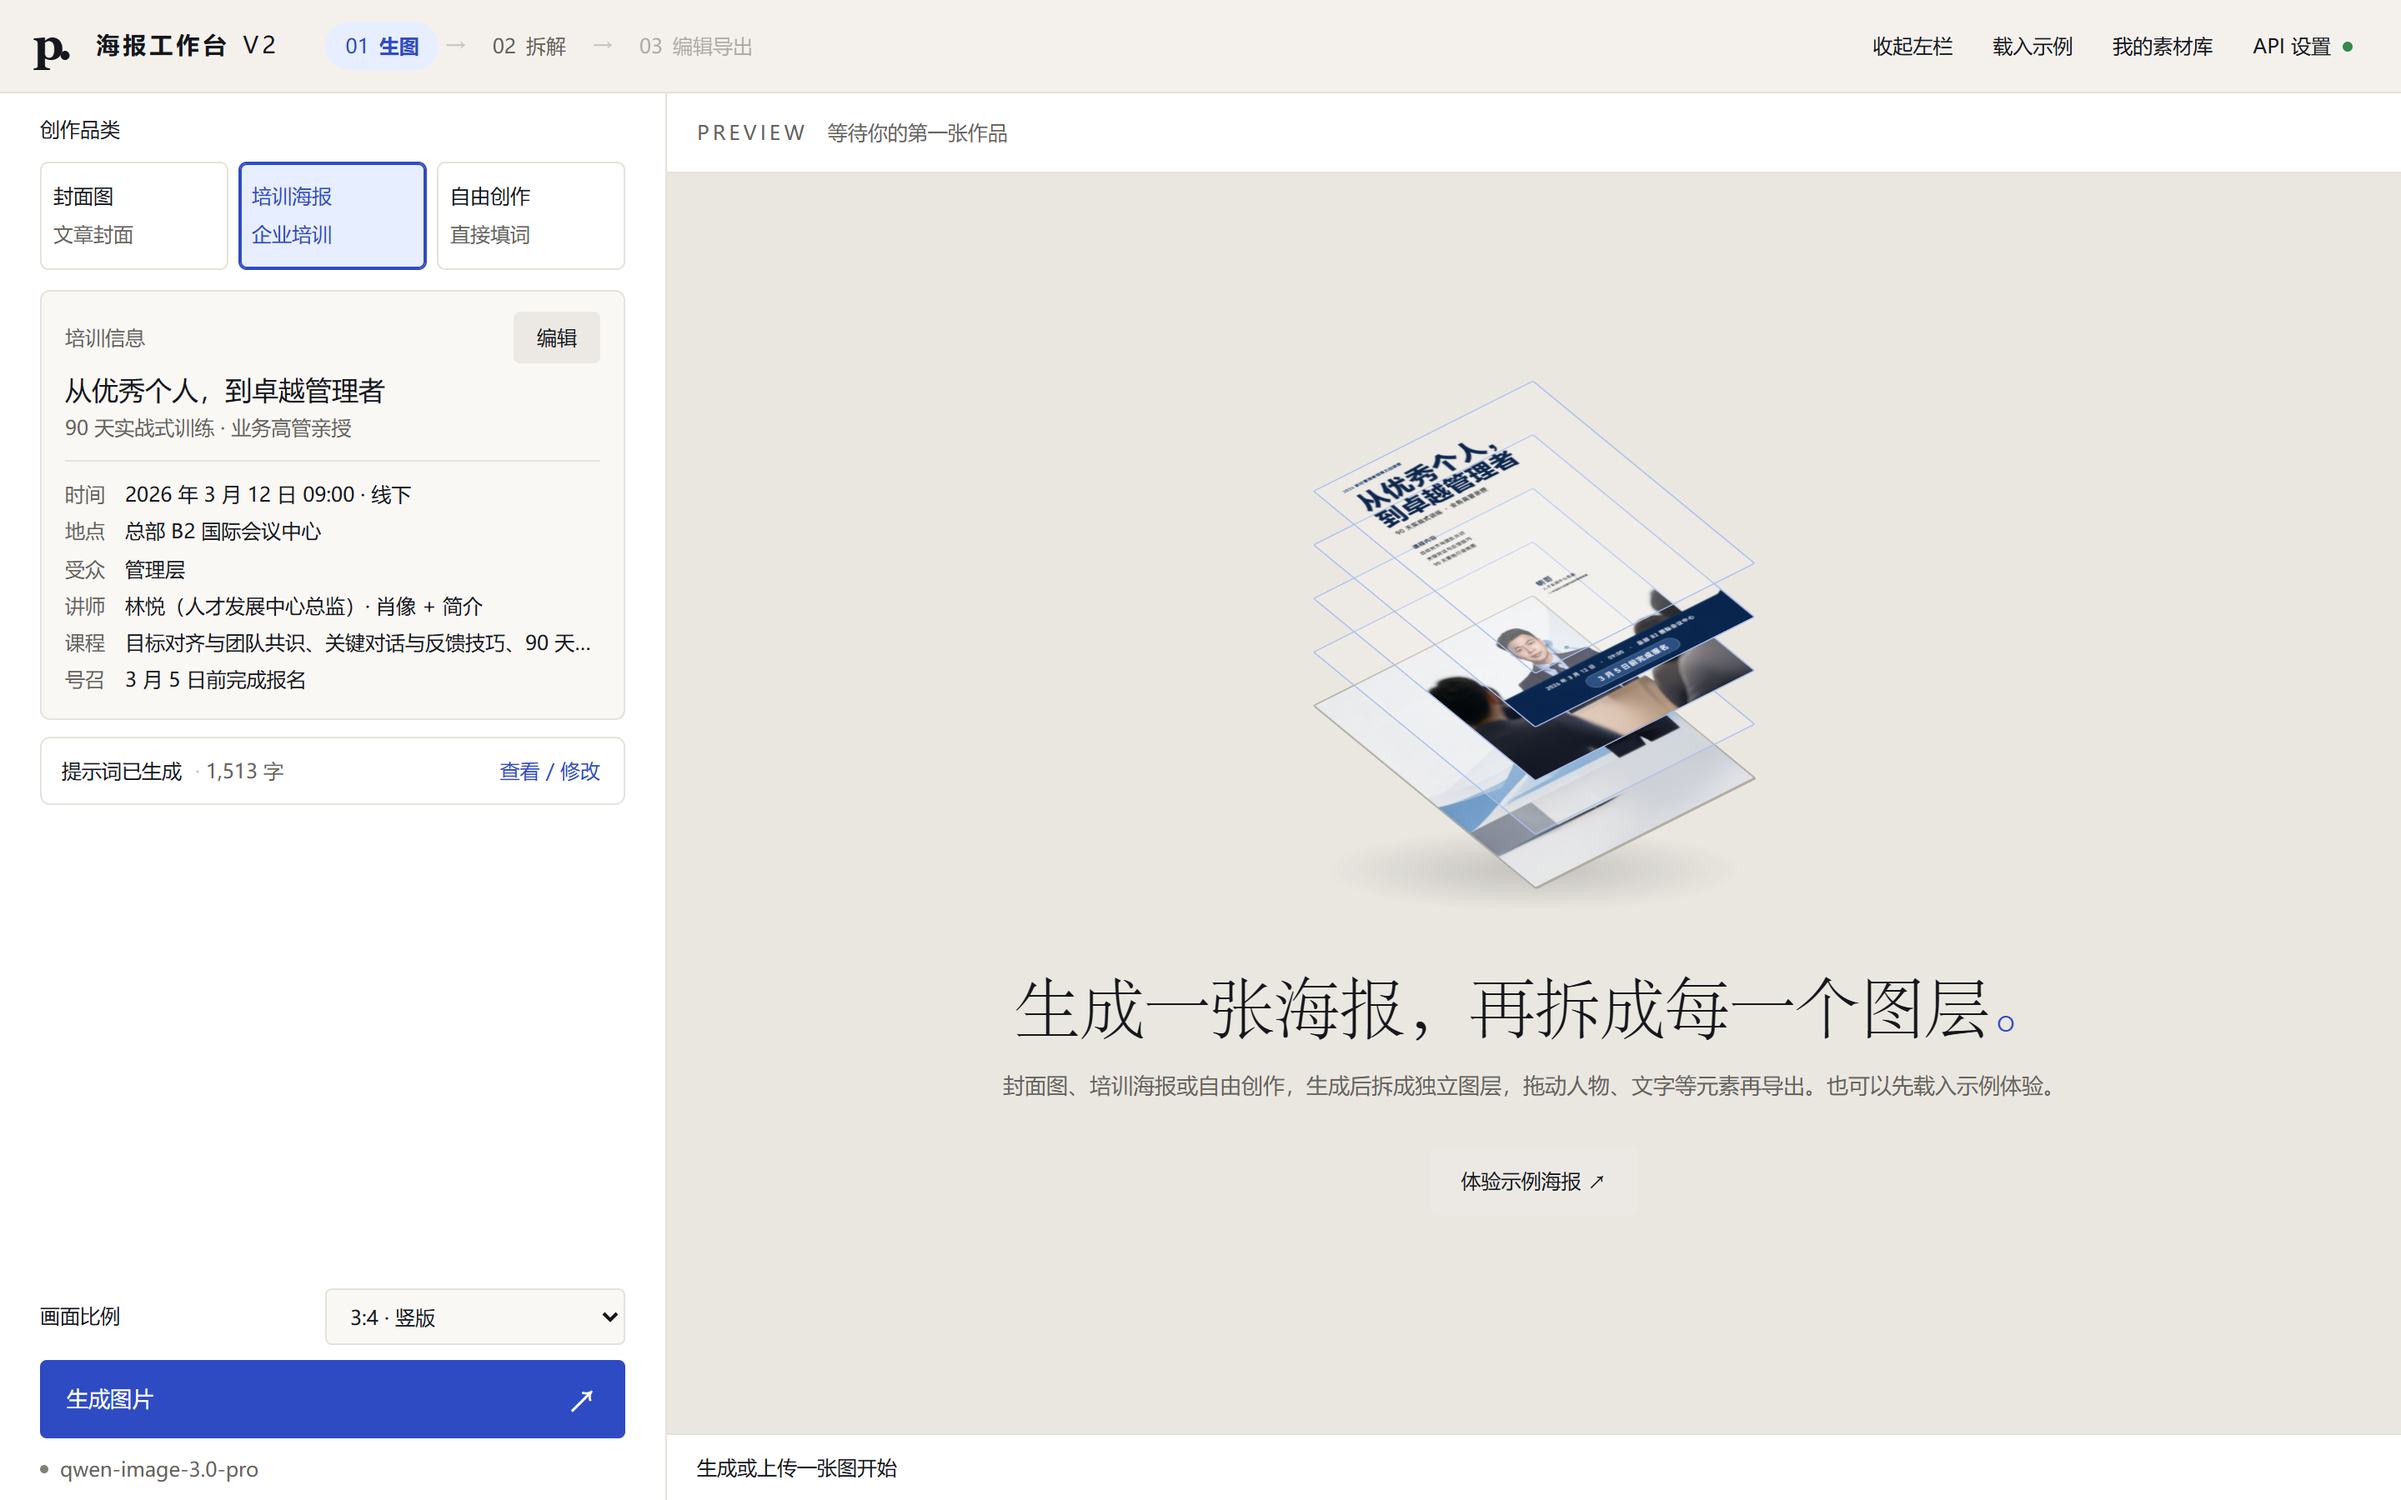
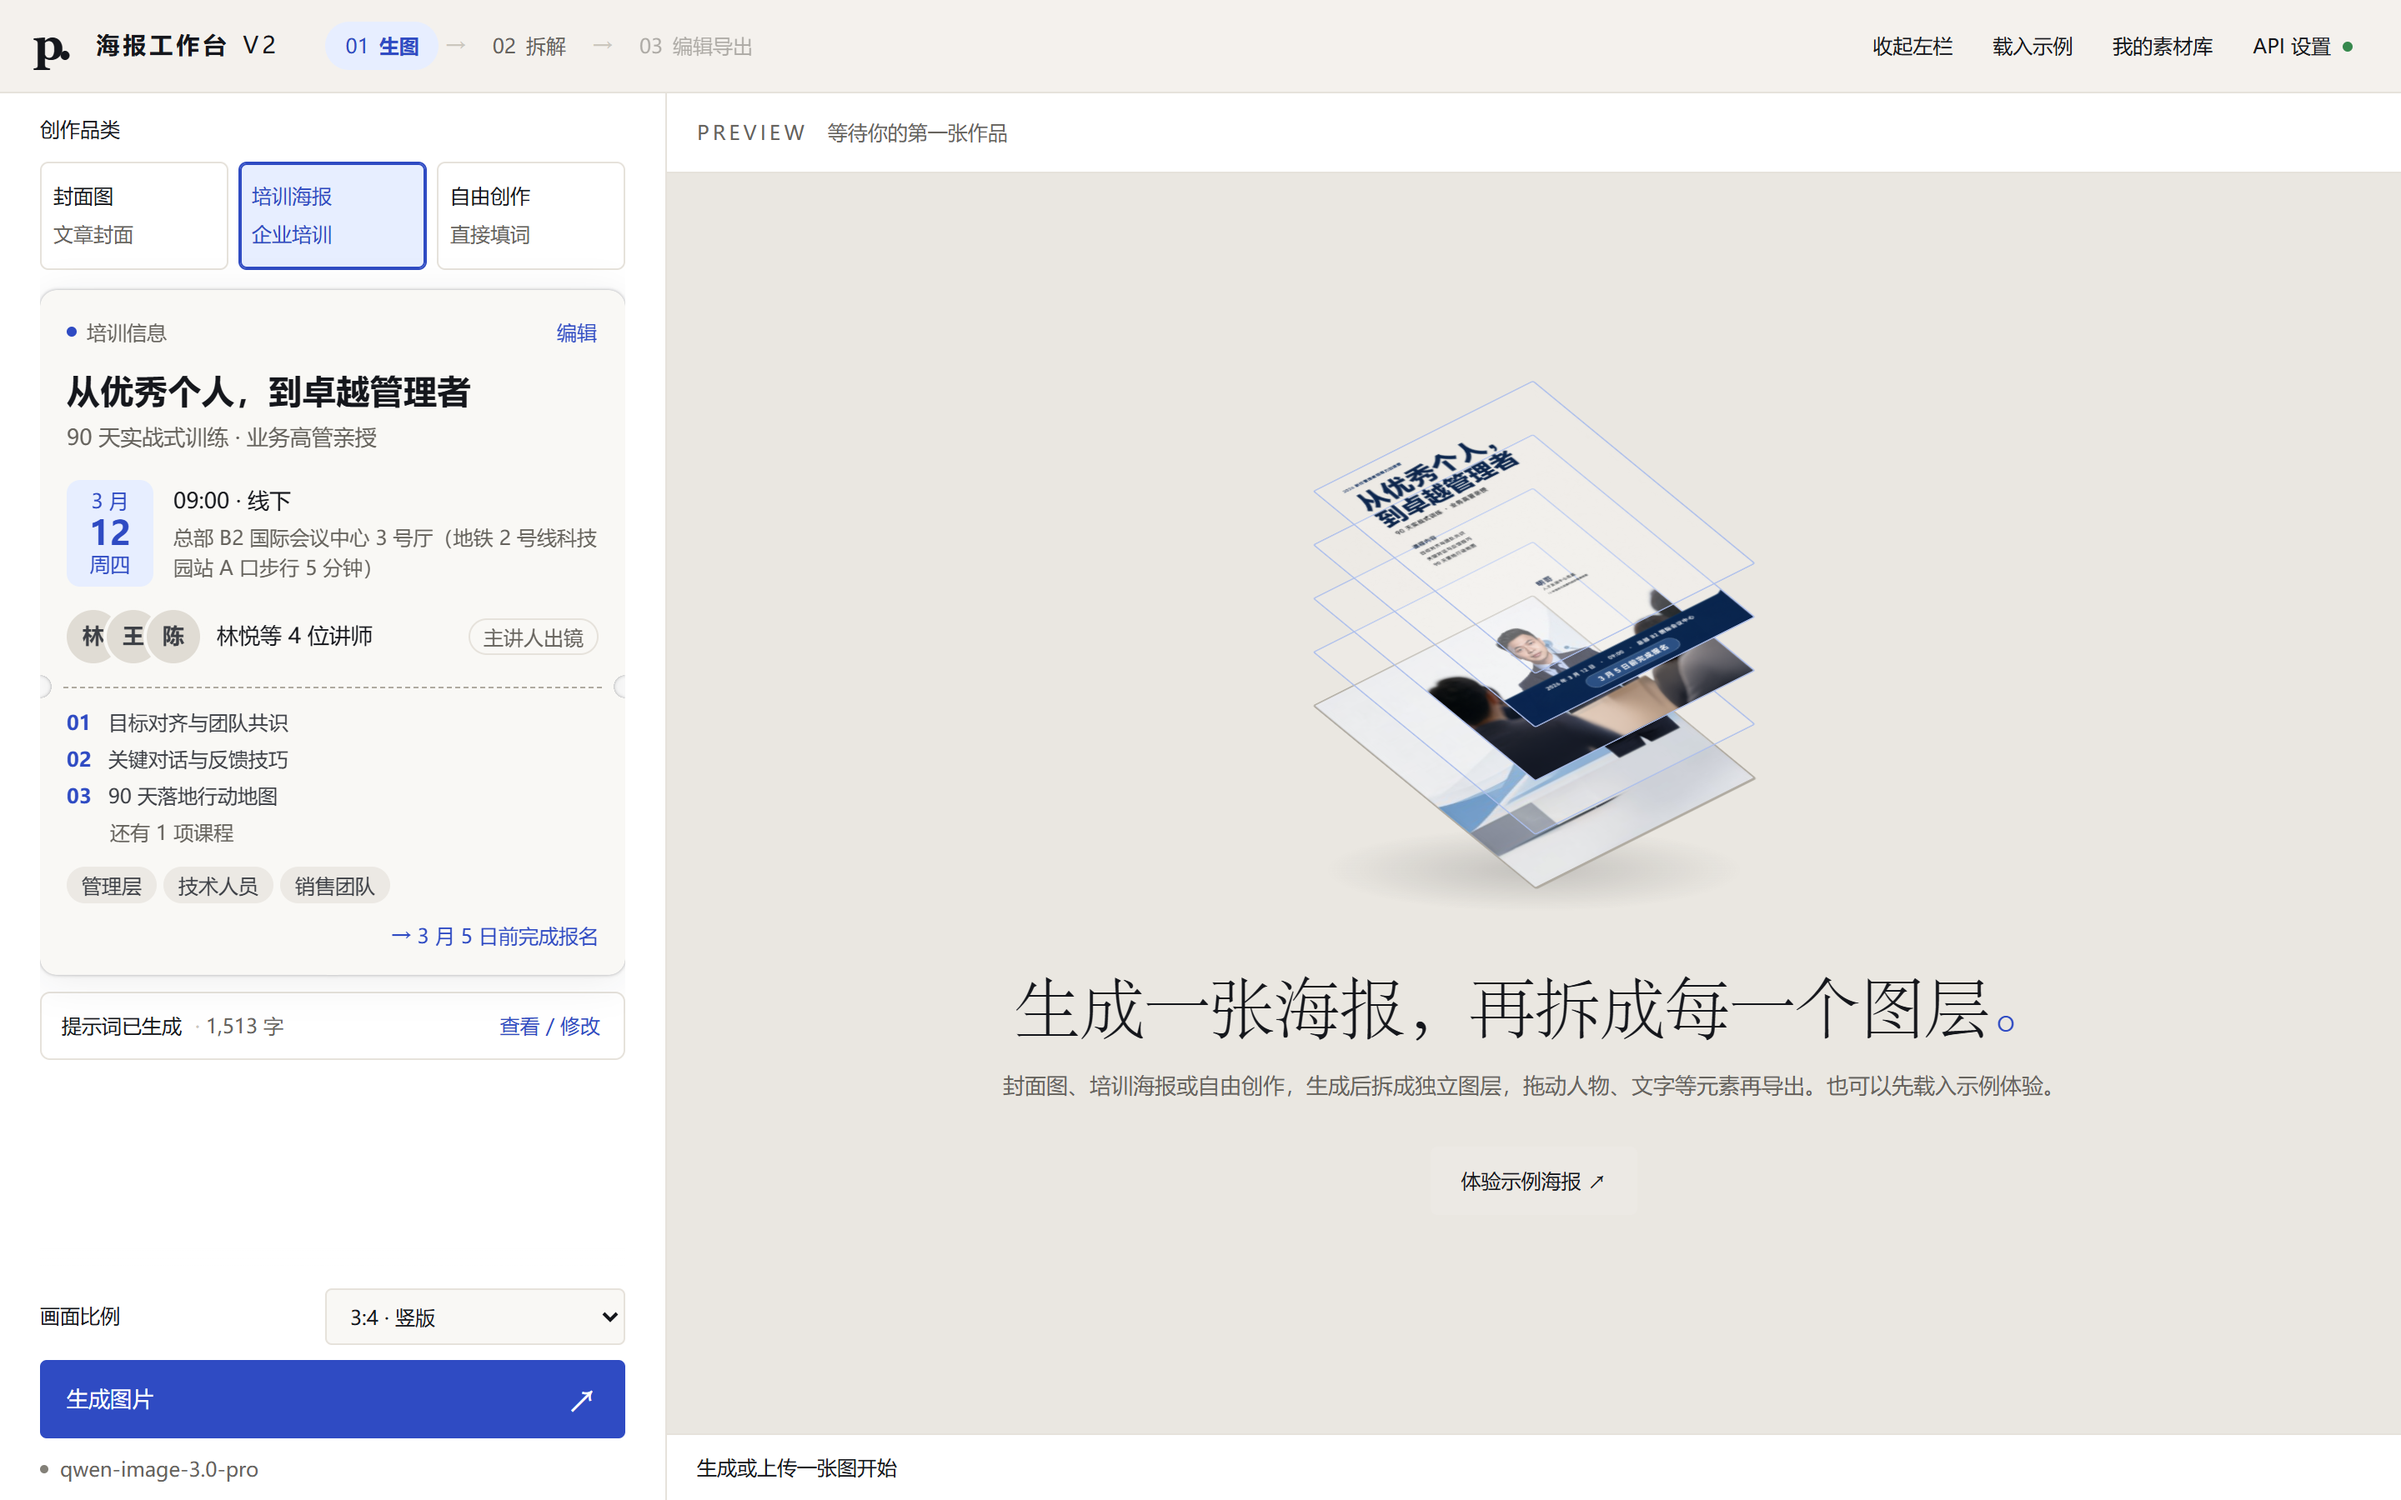
docs: record the ticket-style info card

diff --git a/docs/变更日志.md b/docs/变更日志.md
@@ -17,6 +17,7 @@
 
 ### 变更
 
+- **信息卡片改成活动票根样式**：主标题加粗突出；日期做成日历块，旁边是时间、形式和地点；讲师显示头像（有肖像用肖像），三位以上叠放成一行；票根虚线下是课程编号、受众标签和行动号召。封面卡片显示所选风格的缩略图。短屏幕上左栏内容可滚动，「生成图片」固定在底部。`TrainingPoster.brief()` 改为返回结构化字段。
 - **生图面板：培训信息卡片 + 提示词折叠**：按钮旁的一行摘要换成信息卡片（主标题、副标题、时间、地点、受众、讲师、课程、号召），弹窗拼出的提示词默认折叠成"提示词已生成 · N 字　查看 / 修改"一行；封面图选了风格时同样处理。自由创作和需要手写的提示词保持展开。新增 `TrainingPoster.brief()`，删除 `TrainingForm.summary()`。详见 [界面优化记录 · 第六节](界面优化记录.md#六p1-进度)。
 - **空状态插画换成海报分层爆炸图**：首页画布用示例海报的 5 层（背景、讲师、听众、信息栏、标题）斜着叠起并拉开，打开页面时依次升起；开启"减少动画"时直接显示拉开状态。图片在 `static/empty-art/`，由示例图层缩小合成。详见 [界面优化记录 · 第六节](界面优化记录.md#六p1-进度)。
 - 样式表里生图面板的五层重复覆盖合成一个块，删除 11 组已无元素使用的规则；用 8,785 个元素的计算样式快照比对，确认显示没有变化。（91b59d8）

diff --git a/docs/接口文档.md b/docs/接口文档.md
@@ -225,8 +225,12 @@ compile(values, {ratio, provider, maxRefImages}) → {prompt, references}
   speaker    = {name, title, bio, pose, outfit, photoName}   // photoName 为空表示没有肖像
   references = 要发送肖像的讲师在 speakers 里的下标，升序排列
   主题为空时抛出 Error('请先填写培训主题。')
-brief(values) → {empty, title, subtitle, rows: [[标签, 文字], …]}
-  生图面板信息卡片的内容；规则同 compile（标题回退到主题，讲师按是否会画进海报计）。主题为空时 empty 为 true
+brief(values) → {empty, title, subtitle, date, when, venue, audiences[], mode, speakers[], courses[], cta}
+  生图面板信息卡片的内容；规则同 compile（标题回退到主题，讲师按是否会画进海报计）。主题为空时只有 {empty: true, title: '', subtitle: ''}
+  date     = {year, month, day, weekday: '周四'} | null   // 只有 YYYY-MM-DD 且是真实日期时才有；否则原文放进 when
+  when     = '09:00 · 线下'，没有日期时间时只有形式
+  speakers = [{index, name, title}]   // index 是表单里的原始下标，用来取肖像；没填姓名的显示「讲师 N」
+  mode     = 呈现方式的中文名，没有讲师时为空
 example() → 示例表单值
 defaultSpeaker(i) → 默认讲师；姿势和着装按序号轮换
 POSES, OUTFITS, AUDIENCES, FORMATS, LECTURER_MODES
